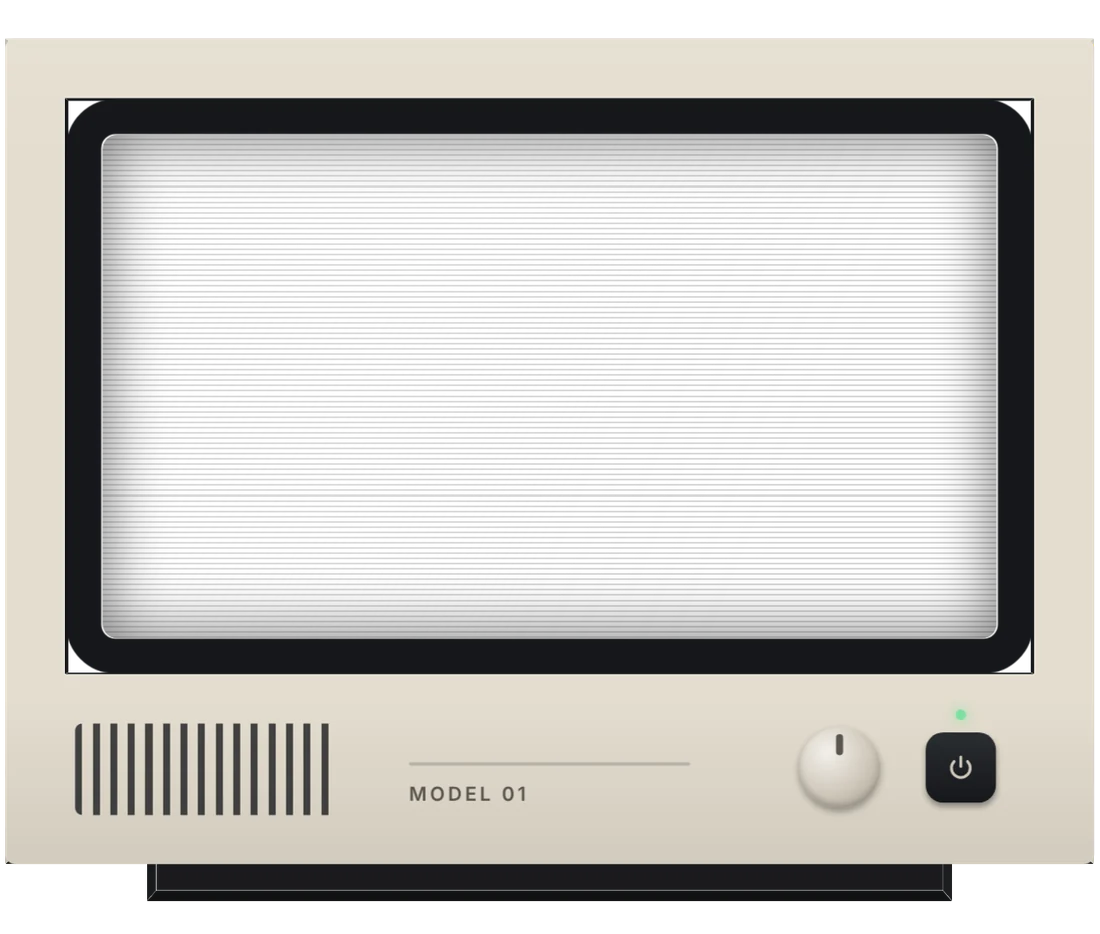
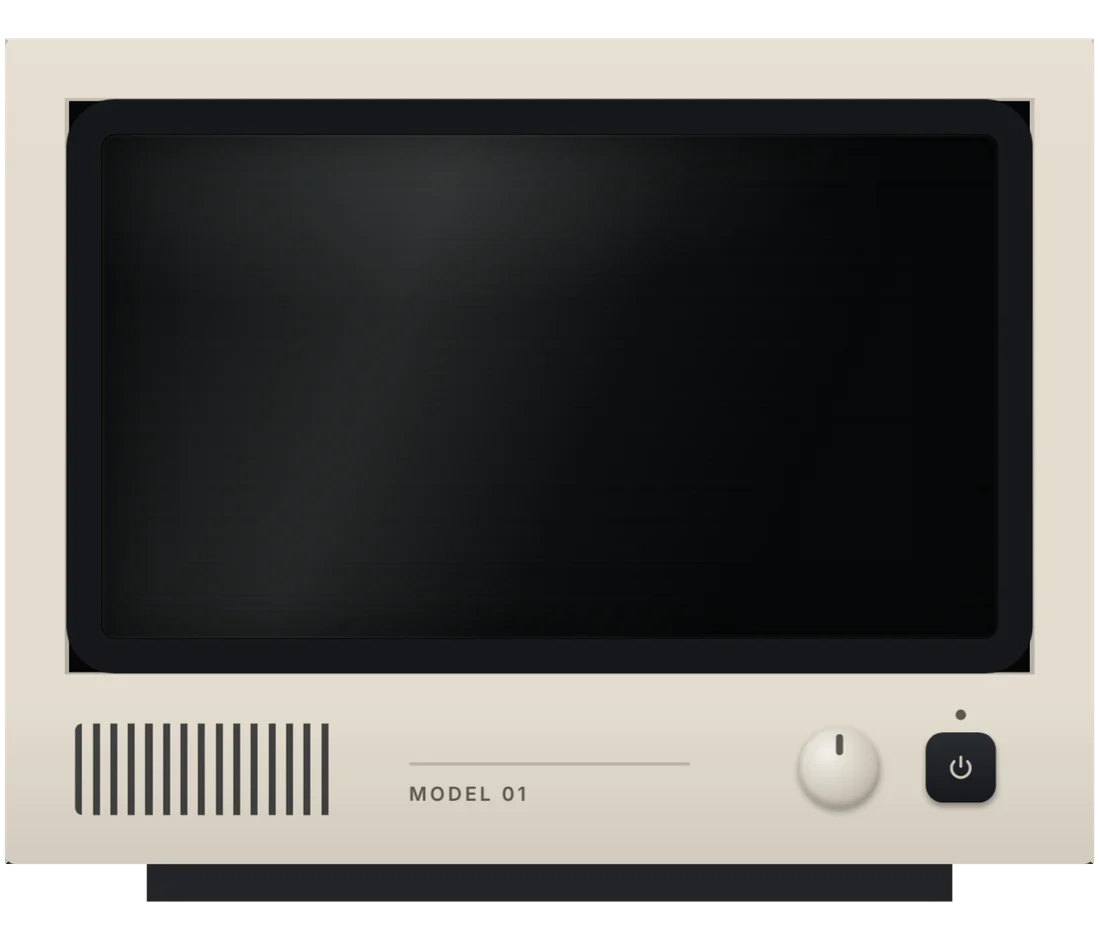
Service monitors: no light lines around the screen
The front monitor image had a cut-out screen, and the soft (anti-aliased)
edge of the cut-out let the light background show through as thin lines.
Now the front image is the whole monitor with a solid black screen; the
service screenshot is laid over it and fades in, with CSS glass and
scanlines on top. The recess side walls of the 3D model, which render as
1px light lines when seen straight on, are left out of the front render.

Claude-Session: https://claude.ai/code/session_01EF74RJx6Bc2WHa661rDqLJ

diff --git a/index.html b/index.html
@@ -96,7 +96,7 @@
 <link rel="canonical" href="https://armsin.de/">
 <link rel="preload" href="assets/fonts/inter-var.woff" as="font" type="font/woff" crossorigin>
 <link rel="preload" href="assets/fonts/jetbrains-mono-var.woff" as="font" type="font/woff" crossorigin>
-<link rel="stylesheet" href="style.css?v=37">
+<link rel="stylesheet" href="style.css?v=38">
 <link rel="icon" href="/favicon.ico" sizes="any">
 <link rel="icon" type="image/png" sizes="48x48" href="assets/logo/favicon-48.png">
 <link rel="icon" type="image/png" sizes="192x192" href="assets/logo/favicon-192.png">
@@ -189,8 +189,9 @@
     </div>
 
     <!-- Services coverflow: one card per service. Each monitor is flat
-         images (fast on every phone): the service screenshot sits behind a
-         front monitor frame with an open screen (monitor-frame-front.webp);
+         images (fast on every phone): the service screenshot is laid over the
+         black screen of the front monitor (monitor-frame-front.webp), with
+         CSS glass and scanlines on top;
          side monitors show a turned, switched-off pose (monitor-off-left /
          -right.webp). initServiceFlow in site.js sets data-pose on each card.
          To change a service: edit its text here and swap the screenshot in
@@ -202,9 +203,9 @@
           <article class="svc-card3">
             <span class="svc-mon">
             <span class="svc-mon-front">
-              <img class="svc-mon-screen" src="assets/images/service-websites-wide.jpg" alt="Ansicht der Youroma-Website auf Computer und Handy" width="1280" height="720" loading="lazy" decoding="async">
-              <span class="svc-mon-off" aria-hidden="true"></span>
               <img class="svc-mon-frame" src="assets/images/monitor-frame-front.webp" alt="" width="1100" height="934" decoding="async">
+              <img class="svc-mon-screen" src="assets/images/service-websites-wide.jpg" alt="Ansicht der Youroma-Website auf Computer und Handy" width="1280" height="720" loading="lazy" decoding="async">
+              <span class="svc-mon-glass" aria-hidden="true"></span>
             </span>
             <img class="svc-mon-side svc-mon-left" src="assets/images/monitor-off-left.webp" alt="" width="1100" height="934" loading="lazy" decoding="async">
             <img class="svc-mon-side svc-mon-right" src="assets/images/monitor-off-right.webp" alt="" width="1100" height="934" loading="lazy" decoding="async">
@@ -218,9 +219,9 @@
           <article class="svc-card3">
             <span class="svc-mon">
             <span class="svc-mon-front">
-              <img class="svc-mon-screen" src="assets/images/service-apps-wide.jpg" alt="Handy mit einer Terminbuchung für einen Salon" width="1280" height="720" loading="lazy" decoding="async">
-              <span class="svc-mon-off" aria-hidden="true"></span>
               <img class="svc-mon-frame" src="assets/images/monitor-frame-front.webp" alt="" width="1100" height="934" decoding="async">
+              <img class="svc-mon-screen" src="assets/images/service-apps-wide.jpg" alt="Handy mit einer Terminbuchung für einen Salon" width="1280" height="720" loading="lazy" decoding="async">
+              <span class="svc-mon-glass" aria-hidden="true"></span>
             </span>
             <img class="svc-mon-side svc-mon-left" src="assets/images/monitor-off-left.webp" alt="" width="1100" height="934" loading="lazy" decoding="async">
             <img class="svc-mon-side svc-mon-right" src="assets/images/monitor-off-right.webp" alt="" width="1100" height="934" loading="lazy" decoding="async">
@@ -234,9 +235,9 @@
           <article class="svc-card3">
             <span class="svc-mon">
             <span class="svc-mon-front">
-              <img class="svc-mon-screen" src="assets/images/service-fotografie-wide.jpg" alt="Produktfoto einer roten Parfümflasche auf hellem Hintergrund" width="1280" height="720" loading="lazy" decoding="async">
-              <span class="svc-mon-off" aria-hidden="true"></span>
               <img class="svc-mon-frame" src="assets/images/monitor-frame-front.webp" alt="" width="1100" height="934" decoding="async">
+              <img class="svc-mon-screen" src="assets/images/service-fotografie-wide.jpg" alt="Produktfoto einer roten Parfümflasche auf hellem Hintergrund" width="1280" height="720" loading="lazy" decoding="async">
+              <span class="svc-mon-glass" aria-hidden="true"></span>
             </span>
             <img class="svc-mon-side svc-mon-left" src="assets/images/monitor-off-left.webp" alt="" width="1100" height="934" loading="lazy" decoding="async">
             <img class="svc-mon-side svc-mon-right" src="assets/images/monitor-off-right.webp" alt="" width="1100" height="934" loading="lazy" decoding="async">
@@ -250,9 +251,9 @@
           <article class="svc-card3">
             <span class="svc-mon">
             <span class="svc-mon-front">
-              <img class="svc-mon-screen" src="assets/images/service-automatisierung-wide.jpg" alt="Ablauf: Neue Buchung, Bestätigung, Kalender, Erinnerung" width="1280" height="720" loading="lazy" decoding="async">
-              <span class="svc-mon-off" aria-hidden="true"></span>
               <img class="svc-mon-frame" src="assets/images/monitor-frame-front.webp" alt="" width="1100" height="934" decoding="async">
+              <img class="svc-mon-screen" src="assets/images/service-automatisierung-wide.jpg" alt="Ablauf: Neue Buchung, Bestätigung, Kalender, Erinnerung" width="1280" height="720" loading="lazy" decoding="async">
+              <span class="svc-mon-glass" aria-hidden="true"></span>
             </span>
             <img class="svc-mon-side svc-mon-left" src="assets/images/monitor-off-left.webp" alt="" width="1100" height="934" loading="lazy" decoding="async">
             <img class="svc-mon-side svc-mon-right" src="assets/images/monitor-off-right.webp" alt="" width="1100" height="934" loading="lazy" decoding="async">

diff --git a/style.css b/style.css
@@ -4648,24 +4648,34 @@ html[data-theme="light"] .showcase-pill {
   transition: transform 600ms var(--ease-out), opacity 400ms var(--ease-out);
 }
 
-/* Monitor = flat images. Front: the service screenshot (.svc-mon-screen)
-   sits in the open screen of monitor-frame-front.webp; .svc-mon-off is a
-   black panel that fades in when the screen is "off". Side poses are
-   pre-rendered turned, switched-off monitors (already darkened in the file).
-   Screen box in % of the frame image (1100x934): measured when rendering
-   the frame in tools/render-monitors.html. */
+/* Monitor = flat images. Front: monitor-frame-front.webp is the whole
+   monitor with its screen switched off (solid black). The service
+   screenshot (.svc-mon-screen) is laid exactly over that black screen and
+   fades in when the card is in the middle; .svc-mon-glass adds the glass
+   reflection, vignette and scanlines on top. Nothing is cut out of the
+   frame, so no background can show through at the screen edge. Side poses
+   are pre-rendered turned, switched-off monitors (darkened in the file).
+   Screen box in % of the frame image (1100x934), measured when rendering
+   in tools/render-monitors.html; corner radius = the screen's 8px of 512x288. */
 .svc-mon { position: relative; display: block; width: 100%; aspect-ratio: 1100 / 934; }
 .svc-mon-front, .svc-mon-frame, .svc-mon-side { position: absolute; inset: 0; width: 100%; height: 100%; }
-.svc-mon-screen, .svc-mon-off {
+.svc-mon-screen, .svc-mon-glass {
   position: absolute;
   left: 9.421%; top: 14.532%;
   width: 81.079%; height: 53.722%;
+  border-radius: 1.5625% / 2.778%;
 }
-.svc-mon-screen { object-fit: cover; }
-.svc-mon-off { background: #07090A; opacity: 1; transition: opacity 500ms var(--ease-out) 150ms; }
+.svc-mon-screen { object-fit: cover; opacity: 0; transition: opacity 500ms var(--ease-out) 150ms; }
+.svc-mon-glass {
+  pointer-events: none;
+  background:
+    linear-gradient(112deg, rgba(255,255,255,0) 30%, rgba(255,255,255,.10) 44%, rgba(255,255,255,.02) 52%, rgba(255,255,255,0) 60%),
+    repeating-linear-gradient(0deg, rgba(0,0,0,.16) 0 1px, rgba(0,0,0,0) 1px 3px);
+  box-shadow: inset 0 0 28px rgba(0,0,0,.5);
+}
 .svc-mon-side { opacity: 0; transition: opacity 450ms var(--ease-out); }
 .svc-mon-front { transition: opacity 450ms var(--ease-out); }
-[data-pose="on"] .svc-mon-off { opacity: 0; }
+[data-pose="on"] .svc-mon-screen { opacity: 1; }
 [data-pose="left"] .svc-mon-front, [data-pose="right"] .svc-mon-front { opacity: 0; }
 [data-pose="left"] .svc-mon-left, [data-pose="right"] .svc-mon-right { opacity: 1; }
 /* The glow of a switched-on screen, drawn once behind the monitor. */
@@ -4707,7 +4717,7 @@ html[data-theme="light"] .showcase-pill {
 .svc-card3:not(.is-active) .svc-mon-body { opacity: 0; transition: opacity 500ms var(--ease-out); }
 .svc-flow .svc-controls { display: flex; justify-content: center; gap: 12px; margin-top: var(--space-3); }
 @media (prefers-reduced-motion: reduce) {
-  .svc-card3, .svc-mon-front, .svc-mon-side, .svc-mon-off, .svc-mon::before { transition-duration: 1ms; transition-delay: 0ms; }
+  .svc-card3, .svc-mon-front, .svc-mon-side, .svc-mon-screen, .svc-mon::before { transition-duration: 1ms; transition-delay: 0ms; }
 }
 
 /* The coverflow side cards stick out past the screen edge: clip them. */

diff --git a/tools/render-monitors.html b/tools/render-monitors.html
@@ -3,13 +3,14 @@
      images of this 3D monitor instead of the live component (live 3D lagged
      on phones). The images were made by screenshotting #m at 2x with a
      transparent background, then cropped to the same box and saved as WebP:
-       monitor-frame-front.webp  rx 0, ry 0, screen on; in the shadow root
-         .screen background transparent, .img/.ph hidden, first .p3>.f plate
-         transparent, .back hidden, .wall hidden (open screen)
+       monitor-frame-front.webp  rx 0, ry 0, screen off, .wall hidden, the four
+         recess side walls hidden (.f[style*="translateZ(20px) rotate"]; edge-on
+         they only render as thin light lines)
+         (the service screenshot is laid over its black screen in CSS)
        monitor-off-left.webp     ry 28, screen off, .wall hidden, then 72% brightness
        monitor-off-right.webp    ry -28, same
      If the frame is re-rendered, re-measure the screen box and update the
-     .svc-mon-screen / .svc-mon-off percentages in style.css. -->
+     .svc-mon-screen / .svc-mon-glass percentages in style.css. -->
 <style>html,body{margin:0;background:transparent}#m{width:780px}</style>
 <script src="../assets/js/slim-monitor.js"></script>
 <slim-monitor id="m" shell="#E4DDCF" rx="0" ry="0" scanlines static no-floor strength="0"></slim-monitor>

diff --git a/blog.html b/blog.html
@@ -22,7 +22,7 @@
 <meta property="og:image" content="https://armsin.de/assets/og-armsin.jpg">
 <link rel="preload" href="assets/fonts/inter-var.woff" as="font" type="font/woff" crossorigin>
 <link rel="preload" href="assets/fonts/jetbrains-mono-var.woff" as="font" type="font/woff" crossorigin>
-<link rel="stylesheet" href="style.css?v=37">
+<link rel="stylesheet" href="style.css?v=38">
 <link rel="icon" href="/favicon.ico" sizes="any">
 <link rel="icon" type="image/png" sizes="48x48" href="assets/logo/favicon-48.png">
 <link rel="icon" type="image/png" sizes="192x192" href="assets/logo/favicon-192.png">

diff --git a/project-youroma-fotos.html b/project-youroma-fotos.html
@@ -22,7 +22,7 @@
 <link rel="canonical" href="https://armsin.de/project-youroma-fotos">
 <link rel="preload" href="assets/fonts/inter-var.woff" as="font" type="font/woff" crossorigin>
 <link rel="preload" href="assets/fonts/jetbrains-mono-var.woff" as="font" type="font/woff" crossorigin>
-<link rel="stylesheet" href="style.css?v=37">
+<link rel="stylesheet" href="style.css?v=38">
 <link rel="icon" href="/favicon.ico" sizes="any">
 <link rel="icon" type="image/png" sizes="48x48" href="assets/logo/favicon-48.png">
 <link rel="icon" type="image/png" sizes="192x192" href="assets/logo/favicon-192.png">

diff --git a/project-reiseglueck.html b/project-reiseglueck.html
@@ -22,7 +22,7 @@
 <link rel="canonical" href="https://armsin.de/project-reiseglueck">
 <link rel="preload" href="assets/fonts/inter-var.woff" as="font" type="font/woff" crossorigin>
 <link rel="preload" href="assets/fonts/jetbrains-mono-var.woff" as="font" type="font/woff" crossorigin>
-<link rel="stylesheet" href="style.css?v=37">
+<link rel="stylesheet" href="style.css?v=38">
 <link rel="icon" href="/favicon.ico" sizes="any">
 <link rel="icon" type="image/png" sizes="48x48" href="assets/logo/favicon-48.png">
 <link rel="icon" type="image/png" sizes="192x192" href="assets/logo/favicon-192.png">

diff --git a/project-youroma.html b/project-youroma.html
@@ -22,7 +22,7 @@
 <link rel="canonical" href="https://armsin.de/project-youroma">
 <link rel="preload" href="assets/fonts/inter-var.woff" as="font" type="font/woff" crossorigin>
 <link rel="preload" href="assets/fonts/jetbrains-mono-var.woff" as="font" type="font/woff" crossorigin>
-<link rel="stylesheet" href="style.css?v=37">
+<link rel="stylesheet" href="style.css?v=38">
 <link rel="icon" href="/favicon.ico" sizes="any">
 <link rel="icon" type="image/png" sizes="48x48" href="assets/logo/favicon-48.png">
 <link rel="icon" type="image/png" sizes="192x192" href="assets/logo/favicon-192.png">

diff --git a/datenschutz.html b/datenschutz.html
@@ -23,7 +23,7 @@
 <link rel="canonical" href="https://armsin.de/datenschutz">
 <link rel="preload" href="assets/fonts/inter-var.woff" as="font" type="font/woff" crossorigin>
 <link rel="preload" href="assets/fonts/jetbrains-mono-var.woff" as="font" type="font/woff" crossorigin>
-<link rel="stylesheet" href="style.css?v=37">
+<link rel="stylesheet" href="style.css?v=38">
 <link rel="icon" href="/favicon.ico" sizes="any">
 <link rel="icon" type="image/png" sizes="48x48" href="assets/logo/favicon-48.png">
 <link rel="icon" type="image/png" sizes="192x192" href="assets/logo/favicon-192.png">

diff --git a/impressum.html b/impressum.html
@@ -23,7 +23,7 @@
 <link rel="canonical" href="https://armsin.de/impressum">
 <link rel="preload" href="assets/fonts/inter-var.woff" as="font" type="font/woff" crossorigin>
 <link rel="preload" href="assets/fonts/jetbrains-mono-var.woff" as="font" type="font/woff" crossorigin>
-<link rel="stylesheet" href="style.css?v=37">
+<link rel="stylesheet" href="style.css?v=38">
 <link rel="icon" href="/favicon.ico" sizes="any">
 <link rel="icon" type="image/png" sizes="48x48" href="assets/logo/favicon-48.png">
 <link rel="icon" type="image/png" sizes="192x192" href="assets/logo/favicon-192.png">

diff --git a/projects.html b/projects.html
@@ -22,7 +22,7 @@
 <link rel="canonical" href="https://armsin.de/projects">
 <link rel="preload" href="assets/fonts/inter-var.woff" as="font" type="font/woff" crossorigin>
 <link rel="preload" href="assets/fonts/jetbrains-mono-var.woff" as="font" type="font/woff" crossorigin>
-<link rel="stylesheet" href="style.css?v=37">
+<link rel="stylesheet" href="style.css?v=38">
 <link rel="icon" href="/favicon.ico" sizes="any">
 <link rel="icon" type="image/png" sizes="48x48" href="assets/logo/favicon-48.png">
 <link rel="icon" type="image/png" sizes="192x192" href="assets/logo/favicon-192.png">

diff --git a/careers.html b/careers.html
@@ -22,7 +22,7 @@
 <link rel="canonical" href="https://armsin.de/careers">
 <link rel="preload" href="assets/fonts/inter-var.woff" as="font" type="font/woff" crossorigin>
 <link rel="preload" href="assets/fonts/jetbrains-mono-var.woff" as="font" type="font/woff" crossorigin>
-<link rel="stylesheet" href="style.css?v=37">
+<link rel="stylesheet" href="style.css?v=38">
 <link rel="icon" href="/favicon.ico" sizes="any">
 <link rel="icon" type="image/png" sizes="48x48" href="assets/logo/favicon-48.png">
 <link rel="icon" type="image/png" sizes="192x192" href="assets/logo/favicon-192.png">

diff --git a/ablauf.html b/ablauf.html
@@ -22,7 +22,7 @@
 <link rel="canonical" href="https://armsin.de/ablauf">
 <link rel="preload" href="assets/fonts/inter-var.woff" as="font" type="font/woff" crossorigin>
 <link rel="preload" href="assets/fonts/jetbrains-mono-var.woff" as="font" type="font/woff" crossorigin>
-<link rel="stylesheet" href="style.css?v=37">
+<link rel="stylesheet" href="style.css?v=38">
 <link rel="icon" href="/favicon.ico" sizes="any">
 <link rel="icon" type="image/png" sizes="48x48" href="assets/logo/favicon-48.png">
 <link rel="icon" type="image/png" sizes="192x192" href="assets/logo/favicon-192.png">
